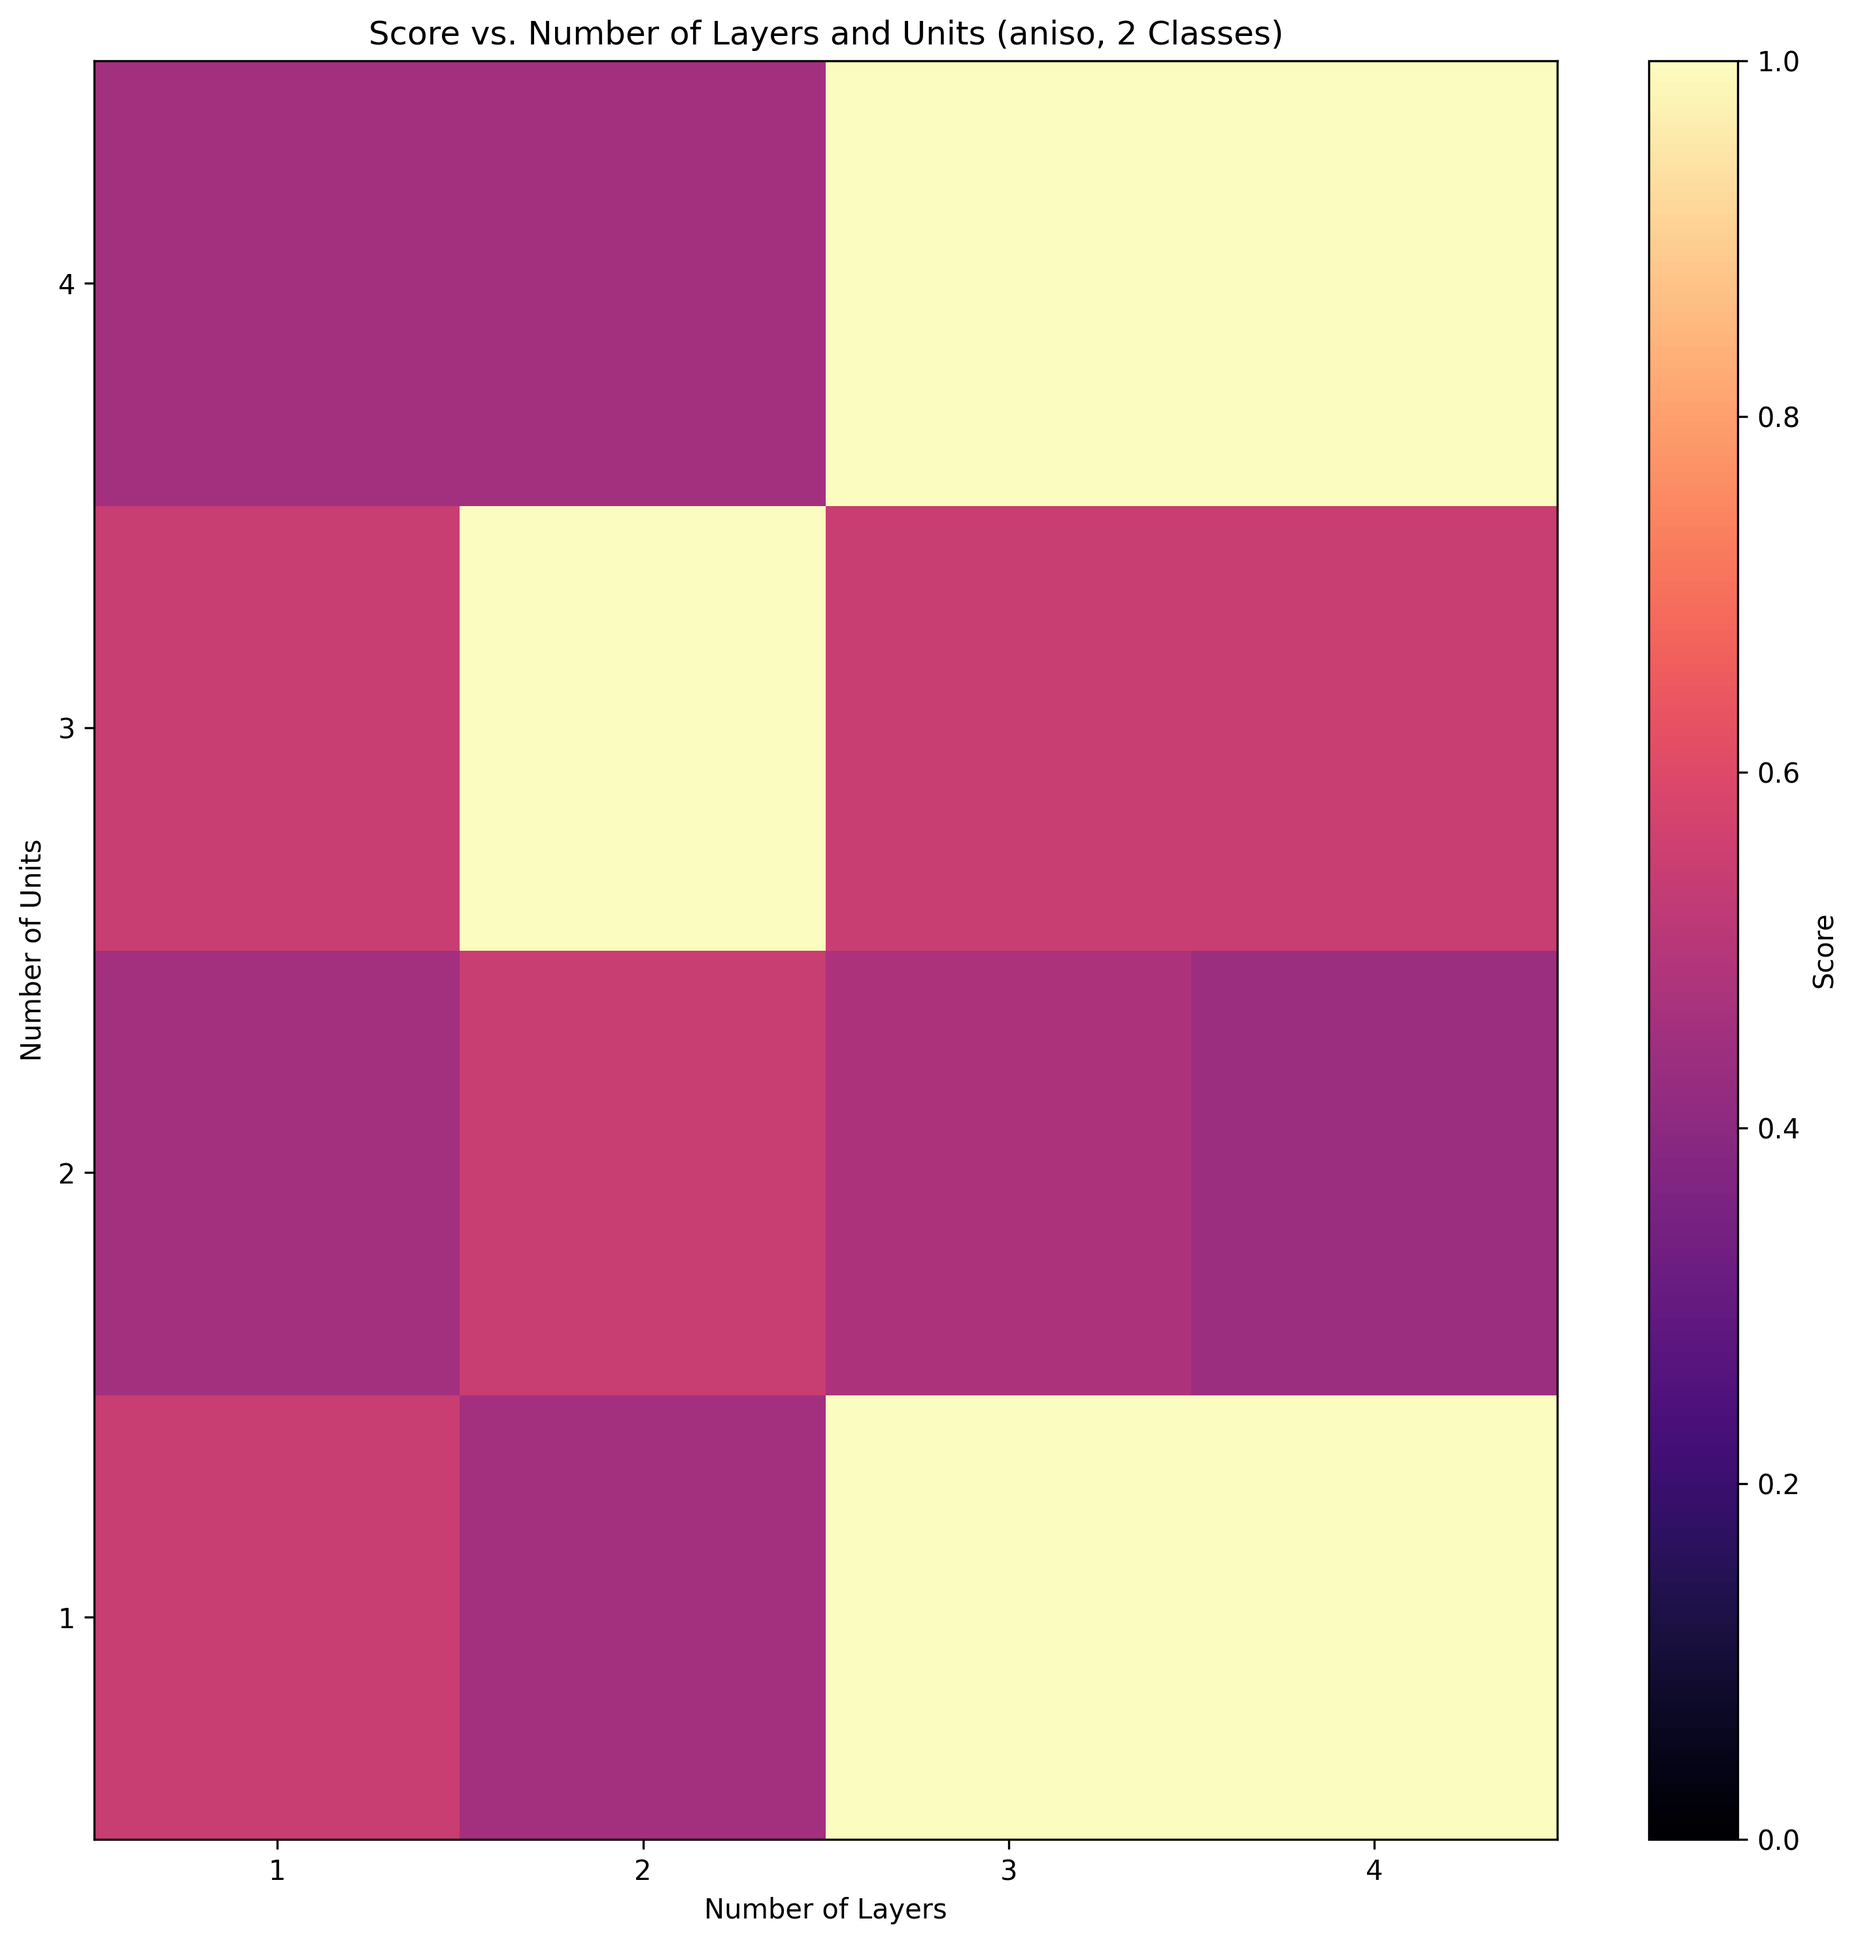
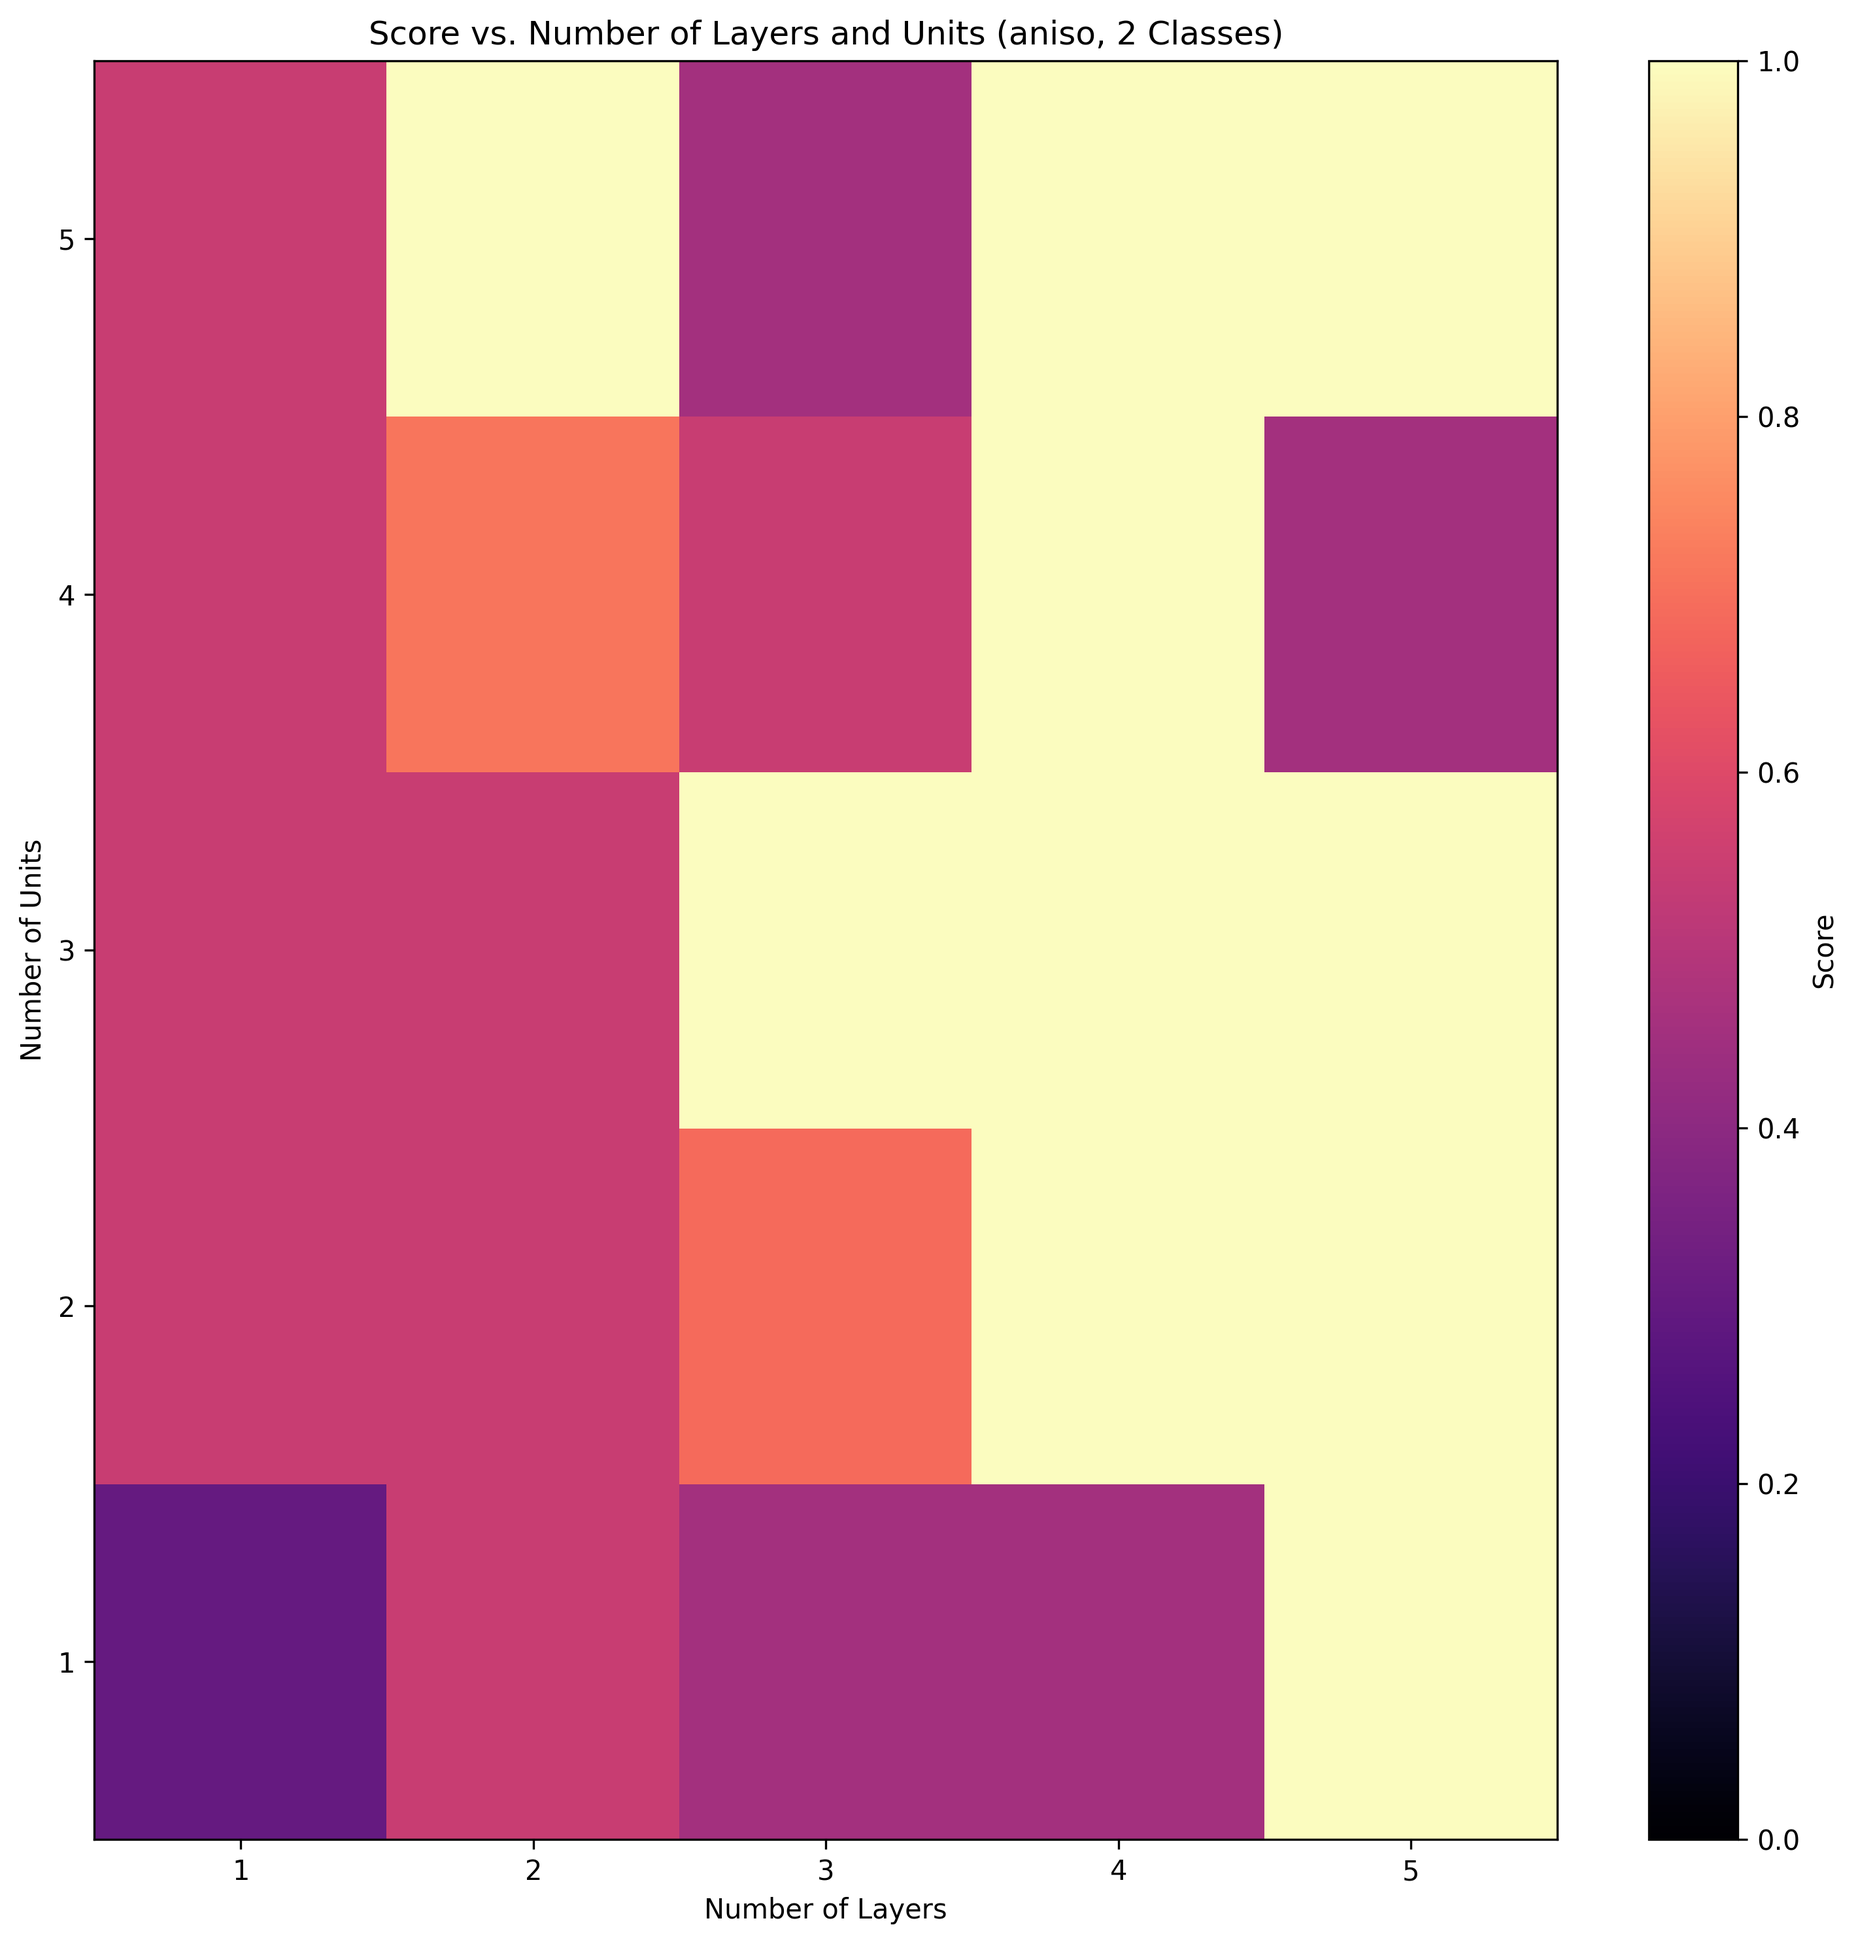
Minor changes and update parallel script

diff --git a/parallel.py b/parallel.py
@@ -1,56 +1,93 @@
-import warnings
+"""
+Executes experiments in parallel to analyze the effects of different number of layers and units per layer on the score of a network.
+"""
+
+from os import makedirs, path
 from time import time
+from warnings import catch_warnings, filterwarnings
 
 import matplotlib.pyplot as plt
-import numpy as np
 from joblib import Parallel, delayed
+from numpy import array as nparray
+from numpy import zeros as npzeros
 from sklearn.exceptions import ConvergenceWarning
+from sklearn.model_selection import train_test_split
 from sklearn.neural_network import MLPClassifier
 from tqdm import tqdm
-from sklearn.model_selection import train_test_split
+
 from data_generators import aniso, blob
 from read_and_write import write_to_file
 
-# Default values
-DATA_SIZE = 5000
+# default values
+FOLDER_NAME = "layers_units"
+DATA_SIZE = 500
 NUMBER_OF_FEATURES = 2
 RANDOM_STATE = 1
 
-# Value ranges
-TYPES_OF_DATA = [blob, aniso]
-MIN_NUMBER_OF_CLASSES = 7
-MAX_NUMBER_OF_CLASSES = 7
+print("Press enter for default values")
 
-MIN_NUMBER_OF_LAYERS = 1
-MAX_NUMBER_OF_LAYERS = 40
-MIN_NUMBER_OF_UNITS = 1
-MAX_NUMBER_OF_UNITS = 40
+# dataset ranges
+DATA_TYPES = [blob, aniso]
+MIN_NUMBER_OF_CLASSES = int(input("MIN_NUMBER_OF_CLASSES or 2: ") or 2)
+MAX_NUMBER_OF_CLASSES = int(input("MAX_NUMBER_OF_CLASSES or 7: ") or 7)
 
-total_ops = (
-    len(TYPES_OF_DATA)
-    * (MAX_NUMBER_OF_CLASSES - MIN_NUMBER_OF_CLASSES + 1)
-    * (MAX_NUMBER_OF_LAYERS - MIN_NUMBER_OF_LAYERS + 1)
-    * (MAX_NUMBER_OF_UNITS - MIN_NUMBER_OF_UNITS + 1)
+# network architecture ranges
+MIN_NUMBER_OF_LAYERS = int(input("MIN_NUMBER_OF_LAYERS or 1: ") or 1)
+MAX_NUMBER_OF_LAYERS = int(input("MAX_NUMBER_OF_LAYERS or 40: ") or 40)
+MIN_NUMBER_OF_UNITS = int(input("MIN_NUMBER_OF_UNITS or 1: ") or 1)
+MAX_NUMBER_OF_UNITS = int(input("MAX_NUMBER_OF_UNITS or 40: ") or 40)
+
+# operations counts
+TOTAL_DATASETS = len(DATA_TYPES) * (
+    MAX_NUMBER_OF_CLASSES - MIN_NUMBER_OF_CLASSES + 1
+)
+TOTAL_NETWORKS = (MAX_NUMBER_OF_LAYERS - MIN_NUMBER_OF_LAYERS + 1) * (
+    MAX_NUMBER_OF_UNITS - MIN_NUMBER_OF_UNITS + 1
 )
 
 
-def run_experiment(type_of_data, classes, layers, units):
+def generate_datasets() -> list[dict]:
+    pbar = tqdm(total=TOTAL_DATASETS, desc="Generate Datasets")
+
+    datasets = []
+    for data_type in DATA_TYPES:
+        for number_of_classes in range(
+            MIN_NUMBER_OF_CLASSES, MAX_NUMBER_OF_CLASSES + 1
+        ):
+            X, y = data_type(
+                DATA_SIZE, number_of_classes, NUMBER_OF_FEATURES, RANDOM_STATE
+            )
+            X_train, X_test, y_train, y_test = train_test_split(X, y)
+
+            datasets.append(
+                {
+                    "data_type": data_type.__name__,
+                    "number_of_classes": number_of_classes,
+                    "X_train": X_train,
+                    "X_test": X_test,
+                    "y_train": y_train,
+                    "y_test": y_test,
+                }
+            )
+            pbar.update(1)
+
+    pbar.close()
+    return datasets
+
+
+def run_experiment(dataset: dict, layers: int, units: int) -> tuple:
     start_time = time()
 
-    X, y = type_of_data(
-        DATA_SIZE, classes, NUMBER_OF_FEATURES, RANDOM_STATE
-    )
-    X_train, X_test, y_train, y_test = train_test_split(X, y)
+    network = MLPClassifier(hidden_layer_sizes=(units,) * layers)
+    with catch_warnings():
+        filterwarnings("ignore", category=ConvergenceWarning)
+        network.fit(dataset["X_train"], dataset["y_train"])
 
-    network = MLPClassifier(hidden_layer_sizes=(units,) * layers, solver="lbfgs")
-    with warnings.catch_warnings():
-        warnings.filterwarnings("ignore", category=ConvergenceWarning)
-        network.fit(X_train, y_train)
-    score = network.score(X_test, y_test)
+    score = network.score(dataset["X_test"], dataset["y_test"])
 
     return (
-        type_of_data.__name__,
-        classes,
+        dataset["data_type"],
+        dataset["number_of_classes"],
         layers,
         units,
         score,
@@ -58,84 +95,113 @@ def run_experiment(type_of_data, classes, layers, units):
     )
 
 
+def run_experiments(datasets: list[dict]) -> list[tuple]:
+    experiments = [
+        (dataset, layers, units)
+        for dataset in datasets
+        for layers in range(MIN_NUMBER_OF_LAYERS, MAX_NUMBER_OF_LAYERS + 1)
+        for units in range(MIN_NUMBER_OF_UNITS, MAX_NUMBER_OF_UNITS + 1)
+    ]
+
+    results = Parallel(n_jobs=-1)(
+        delayed(run_experiment)(dataset, layers, units)
+        for dataset, layers, units in tqdm(
+            experiments, total=len(experiments), desc="Run Experiments"
+        )
+    )
+
+    return results
+
+
+def download_heat_maps(results: list[tuple]) -> None:
+    results = nparray(
+        results,
+        dtype=[
+            ("type_of_data", "U50"),
+            ("classes", int),
+            ("layers", int),
+            ("units", int),
+            ("score", float),
+            ("total_time", float),
+        ],
+    )
+
+    for data_type in DATA_TYPES:
+        for number_of_classes in range(
+            MIN_NUMBER_OF_CLASSES, MAX_NUMBER_OF_CLASSES + 1
+        ):
+            data_type_name = data_type.__name__
+            mask = (results["type_of_data"] == data_type_name) & (
+                results["classes"] == number_of_classes
+            )
+            filtered_results = results[mask]
+
+            layers = filtered_results["layers"]
+            units = filtered_results["units"]
+            score = filtered_results["score"]
+
+            score_2d = npzeros(
+                (
+                    MAX_NUMBER_OF_LAYERS - MIN_NUMBER_OF_LAYERS + 1,
+                    MAX_NUMBER_OF_UNITS - MIN_NUMBER_OF_UNITS + 1,
+                )
+            )
+
+            for l, u, s in zip(layers, units, score):
+                score_2d[l - MIN_NUMBER_OF_LAYERS, u - MIN_NUMBER_OF_UNITS] = s
+
+            aspect_ratio = score_2d.shape[1] / score_2d.shape[0]
+            fig_width = 10
+            fig_height = fig_width / aspect_ratio
+
+            plt.figure(figsize=(fig_width, fig_height), dpi=300)
+
+            im = plt.imshow(
+                score_2d,
+                cmap="magma",
+                extent=(
+                    MIN_NUMBER_OF_LAYERS - 0.5,
+                    MAX_NUMBER_OF_LAYERS + 0.5,
+                    MIN_NUMBER_OF_UNITS - 0.5,
+                    MAX_NUMBER_OF_UNITS + 0.5,
+                ),
+                origin="lower",
+                aspect="auto",
+                vmin=0,
+                vmax=1,
+            )
+
+            plt.colorbar(im, label="Score")
+            plt.xlabel("Number of Layers")
+            plt.ylabel("Number of Units")
+            plt.title(
+                f"Score vs. Number of Layers and Units ({data_type_name}, {number_of_classes} Classes)"
+            )
+
+            plt.xticks(range(MIN_NUMBER_OF_LAYERS, MAX_NUMBER_OF_LAYERS + 1))
+            plt.yticks(range(MIN_NUMBER_OF_UNITS, MAX_NUMBER_OF_UNITS + 1))
+
+            plt.tight_layout()
+
+            makedirs(FOLDER_NAME, exist_ok=True)
+            filename = f"size{DATA_SIZE}_features{NUMBER_OF_FEATURES}_random{RANDOM_STATE}_type{data_type_name}_classes{number_of_classes}.png"
+            filepath = path.join(FOLDER_NAME, filename)
+
+            plt.savefig(filepath, dpi=300, bbox_inches="tight")
+            plt.clf()
+            plt.close()
+
+            print(f"Heatmap saved as {filepath}")
+
+
+# main
+
 master_start_time = time()
 
-# Running experiments in parallel
-results = Parallel(n_jobs=-1)(
-    delayed(run_experiment)(type_of_data, classes, layers, units)
-    for type_of_data, classes, layers, units in tqdm(
-        (
-            (type_of_data, classes, layers, units)
-            for type_of_data in TYPES_OF_DATA
-            for classes in range(
-                MIN_NUMBER_OF_CLASSES, MAX_NUMBER_OF_CLASSES + 1
-            )
-            for layers in range(MIN_NUMBER_OF_LAYERS, MAX_NUMBER_OF_LAYERS + 1)
-            for units in range(MIN_NUMBER_OF_UNITS, MAX_NUMBER_OF_UNITS + 1)
-        ),
-        total=total_ops,
-    )
-)
+datasets = generate_datasets()
+results = run_experiments(datasets)
 
-
-# Converting results to a np array to easily access the columns
-print("Processing results array")
-results_array = np.array(
-    results,
-    dtype=[
-        ("type_of_data", "U50"),
-        ("classes", int),
-        ("layers", int),
-        ("units", int),
-        ("score", float),
-        ("total_time", float),
-    ],
-)
-
-master_end_time = time()
-print(f"Total time: {master_end_time - master_start_time}")
+print(f"Total time: {time() - master_start_time}")
 
 write_to_file(results, "rafael_results.txt")
-
-# Plotting each heatmap
-for data_type in TYPES_OF_DATA:
-    for classes in range(MIN_NUMBER_OF_CLASSES, MAX_NUMBER_OF_CLASSES + 1):
-        mask = (results_array["type_of_data"] == data_type.__name__) & (
-            results_array["classes"] == classes
-        )
-        filtered_results = results_array[mask]
-
-        layers = filtered_results["layers"]
-        units = filtered_results["units"]
-        score = filtered_results["score"]
-
-        score_2d = np.zeros(
-            (
-                MAX_NUMBER_OF_LAYERS - MIN_NUMBER_OF_LAYERS + 1,
-                MAX_NUMBER_OF_UNITS - MIN_NUMBER_OF_UNITS + 1,
-            )
-        )
-
-        for l, u, s in zip(layers, units, score):
-            score_2d[l - MIN_NUMBER_OF_LAYERS, u - MIN_NUMBER_OF_UNITS] = s
-
-        plt.figure(figsize=(10, 10))
-        plt.imshow(
-            score_2d,
-            cmap="viridis",
-            extent=(
-                MIN_NUMBER_OF_LAYERS,
-                MAX_NUMBER_OF_LAYERS,
-                MIN_NUMBER_OF_UNITS,
-                MAX_NUMBER_OF_UNITS,
-            ),
-            origin="lower",
-            aspect="auto",
-        )
-        plt.colorbar(label="Score")
-        plt.xlabel("Number of Layers")
-        plt.ylabel("Number of Units")
-        plt.title(
-            f"Score vs. Number of Layers and Units ({data_type.__name__}, {classes} Classes)"
-        )
-        plt.show()
+download_heat_maps(results)

diff --git a/rafael.py b/rafael.py
@@ -17,10 +17,10 @@ from tqdm import tqdm
 from data_generators import aniso, blob
 from read_and_write import write_to_file
 
-# Ignoring convergence warnings to not mess up the progress bar
+# ignoring convergence warnings to not mess up the progress bar
 filterwarnings("ignore", category=ConvergenceWarning)
 
-# Default values
+# default values
 FOLDER_NAME = "layers_units"
 DATA_SIZE = 500  # barely any difference between 500-5000 data points
 NUMBER_OF_FEATURES = 2
@@ -28,18 +28,18 @@ RANDOM_STATE = 1
 
 print("Press enter for default values")
 
-# Dataset ranges
+# dataset ranges
 DATA_TYPES = [blob, aniso]
 MIN_NUMBER_OF_CLASSES = int(input("MIN_NUMBER_OF_CLASSES or 2: ") or 2)
 MAX_NUMBER_OF_CLASSES = int(input("MAX_NUMBER_OF_CLASSES or 7: ") or 7)
 
-# Network architecture ranges
+# network architecture ranges
 MIN_NUMBER_OF_LAYERS = int(input("MIN_NUMBER_OF_LAYERS or 1: ") or 1)
 MAX_NUMBER_OF_LAYERS = int(input("MAX_NUMBER_OF_LAYERS or 40: ") or 40)
 MIN_NUMBER_OF_UNITS = int(input("MIN_NUMBER_OF_UNITS or 1: ") or 1)
 MAX_NUMBER_OF_UNITS = int(input("MAX_NUMBER_OF_UNITS or 40: ") or 40)
 
-# Operations counts
+# operations counts
 TOTAL_DATASETS = len(DATA_TYPES) * (
     MAX_NUMBER_OF_CLASSES - MIN_NUMBER_OF_CLASSES + 1
 )
@@ -208,7 +208,7 @@ def download_heat_maps(results: list[tuple]) -> None:
             print(f"Heatmap saved as {filepath}")
 
 
-# Main
+# main
 
 master_start_time = time()
 
